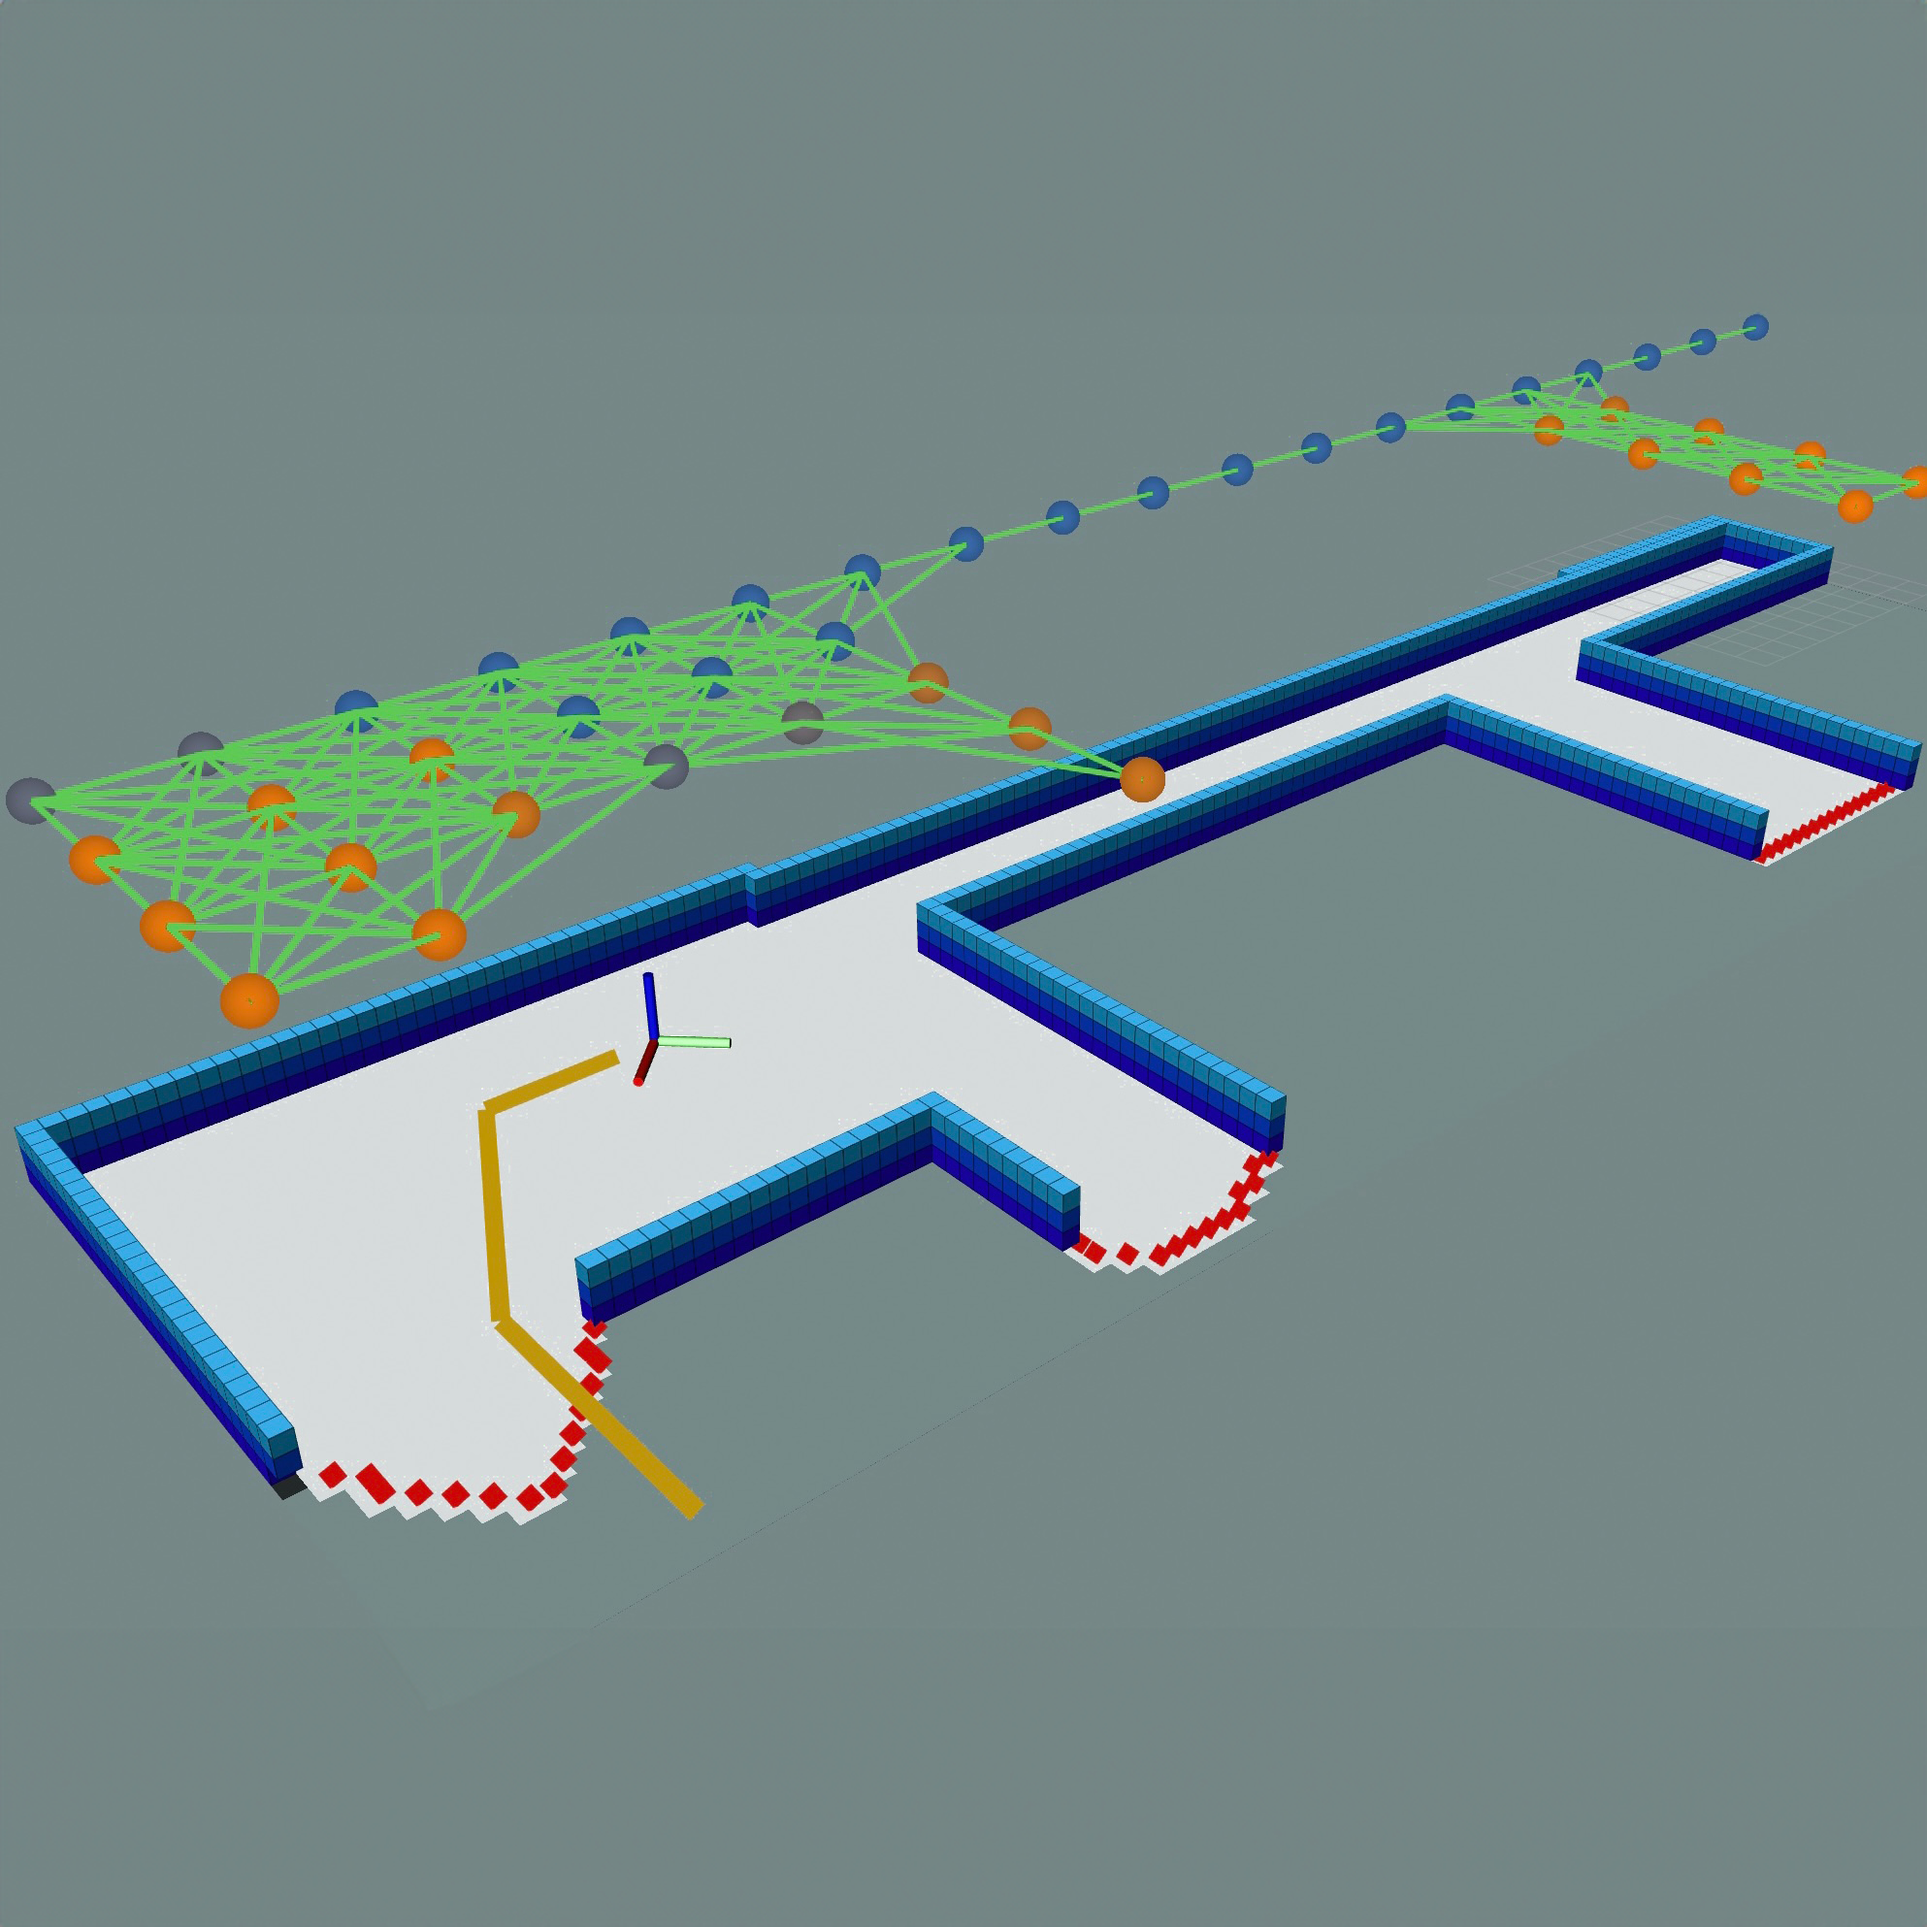
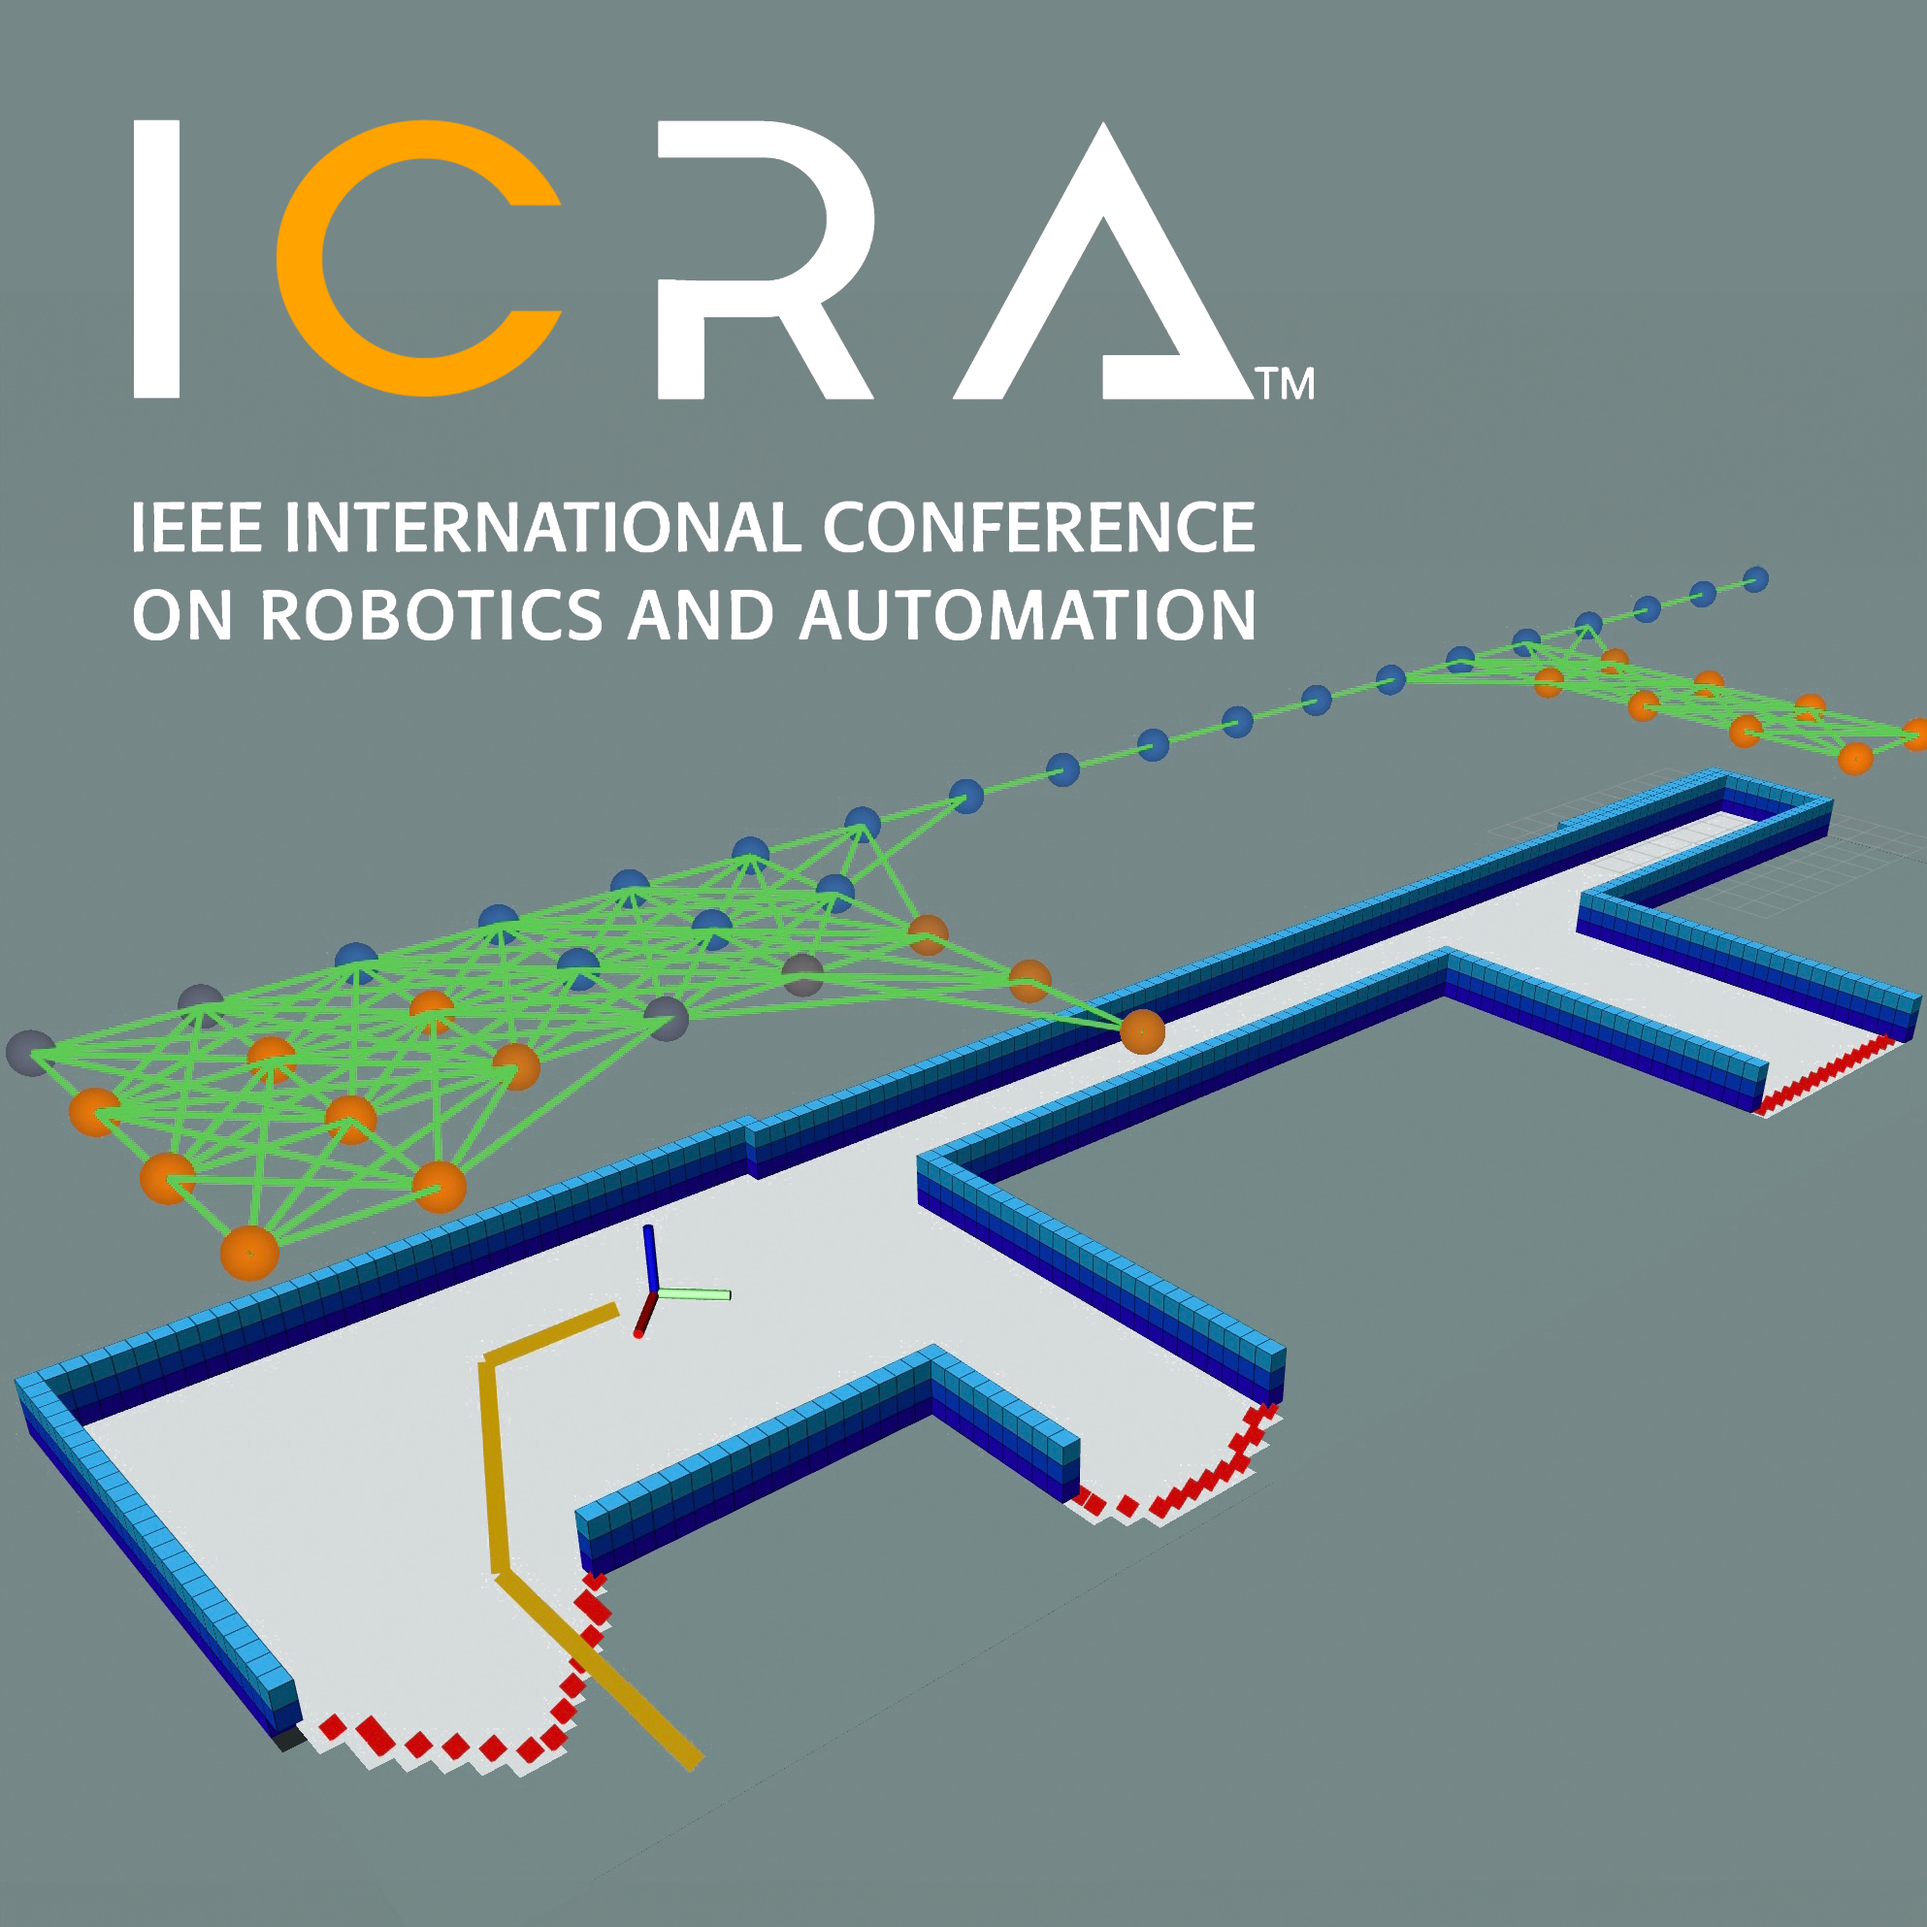
dare accepted

diff --git a/_news/dare.md b/_news/dare.md
@@ -1,0 +1,8 @@
+---
+layout: post
+date: 2025-01-28 10:00:00-0400
+inline: true
+related_posts: false
+---
+
+📑 I am happy to share my collaboration work with [Multi-Agent Robotic Motion Laboratory](https://www.marmotlab.org/) at National University of Singapore, *DARE: Diffusion Policy for Autonomous Robot Exploration* accepted for publication in the Proceedings of 2025 IEEE International Conference on Robotics and Automation (ICRA 2025).
